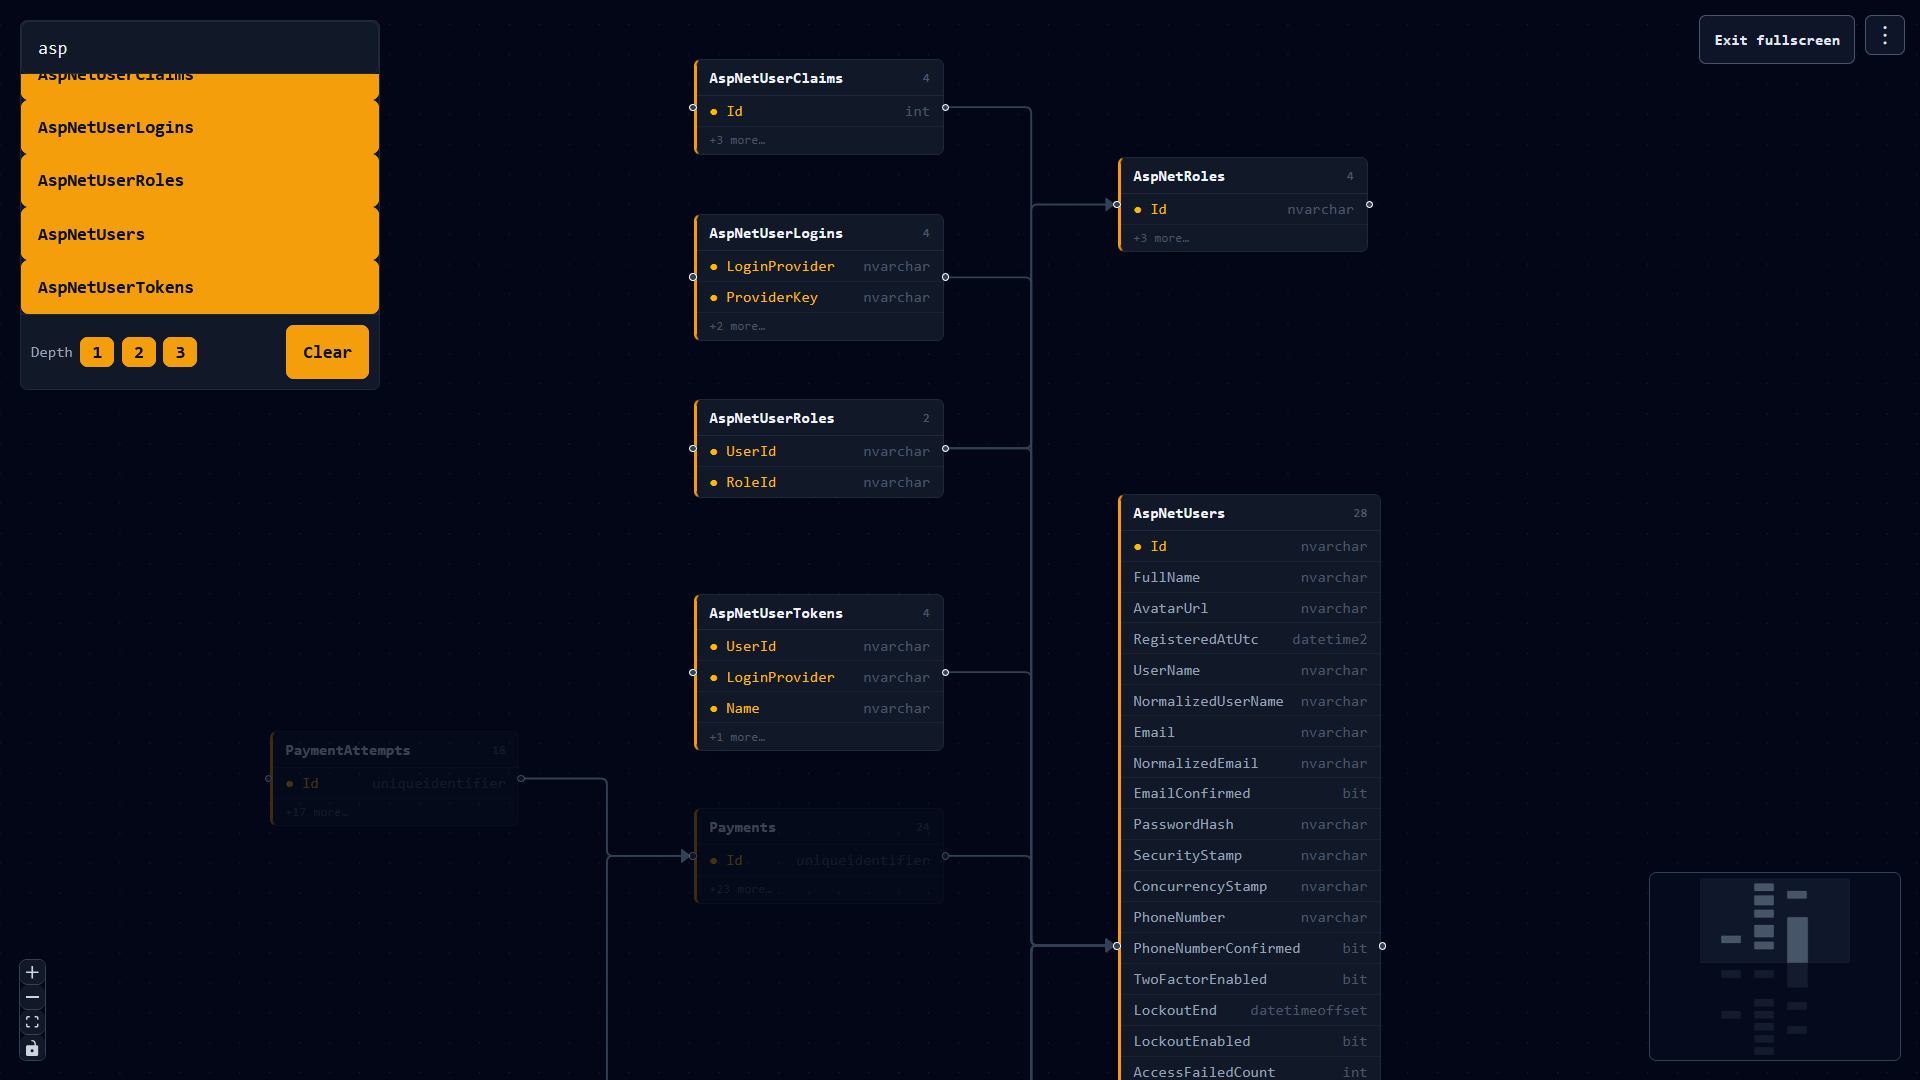
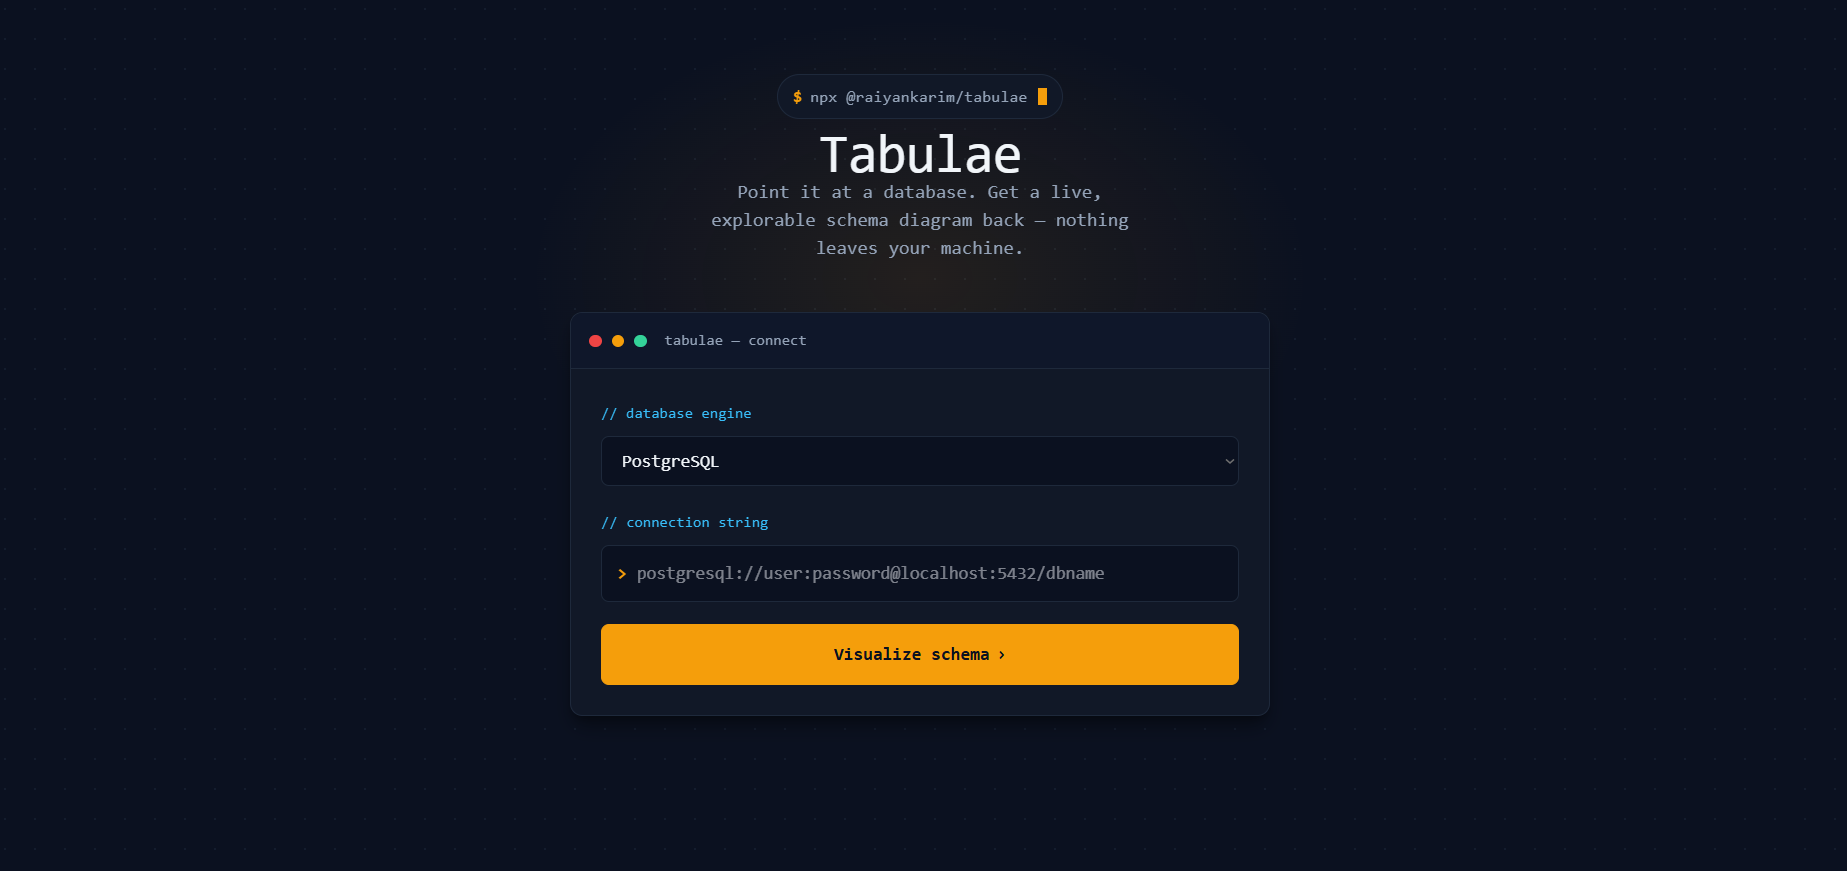
Project update for Tabulae

diff --git a/src/Components/Projects2.jsx b/src/Components/Projects2.jsx
@@ -22,8 +22,8 @@ const projectData = [
         isLogo: false,
         link: "https://github.com/ZahaSanko001/Tabulae",
         title: "Tabulae",
-        text: "Tabulae is a database schema visualization tool. Connect it to a PostgreSQL or SQL Server database and explore its tables, columns, primary keys, foreign keys, and relationships as an interactive diagram.",
-        techs: ["ExpressJs", "TypeScript", "React", "D3.js"],
+        text: "Tabulae is a database schema visualization tool. Connect it to a PostgreSQL, SQL Server, MySQL, or SQLite database and explore its tables, columns, primary keys, foreign keys, and relationships as an interactive diagram.",
+        techs: ["ExpressJs", "TypeScript", "ReactFlow", "Dagre"],
     },
     {
         id: 3,

diff --git a/src/Components/Contact2.jsx b/src/Components/Contact2.jsx
@@ -72,7 +72,7 @@ const Contact = () => {
         <footer
             id="contact"
             ref={sectionRef}
-            className="relative border-t border-amber-400/64 bg-gradient-to-b from-amber-400/10 via-[#1A1A1A] to-[#1A1A1A] pt-20 md:pt-28 pb-10 px-4 sm:px-6 md:px-8 overflow-hidden"
+            className="relative border-t border-amber-400/64 bg-gradient-to-b from-amber-400/10 to-black pt-20 md:pt-28 pb-10 px-4 sm:px-6 md:px-8 overflow-hidden"
         >
 {/*             <div
                 className="pointer-events-none absolute inset-0 opacity-[0.05]"
